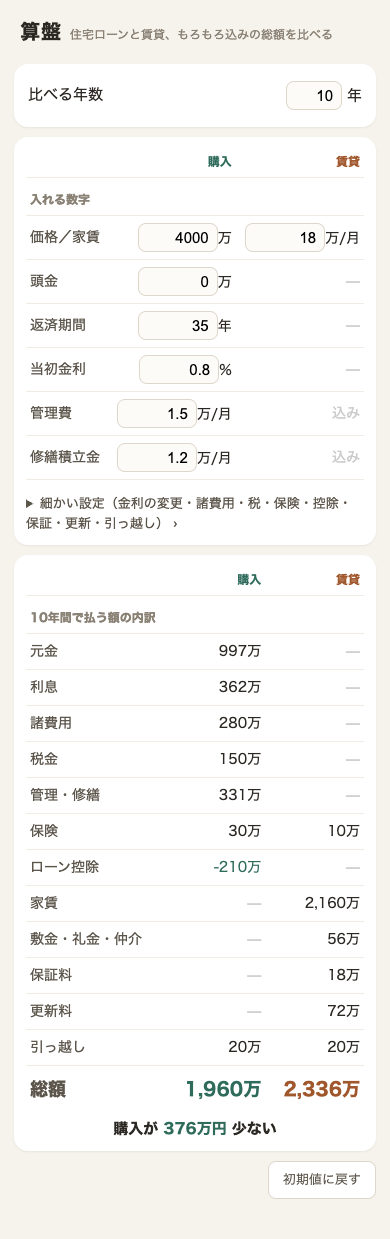
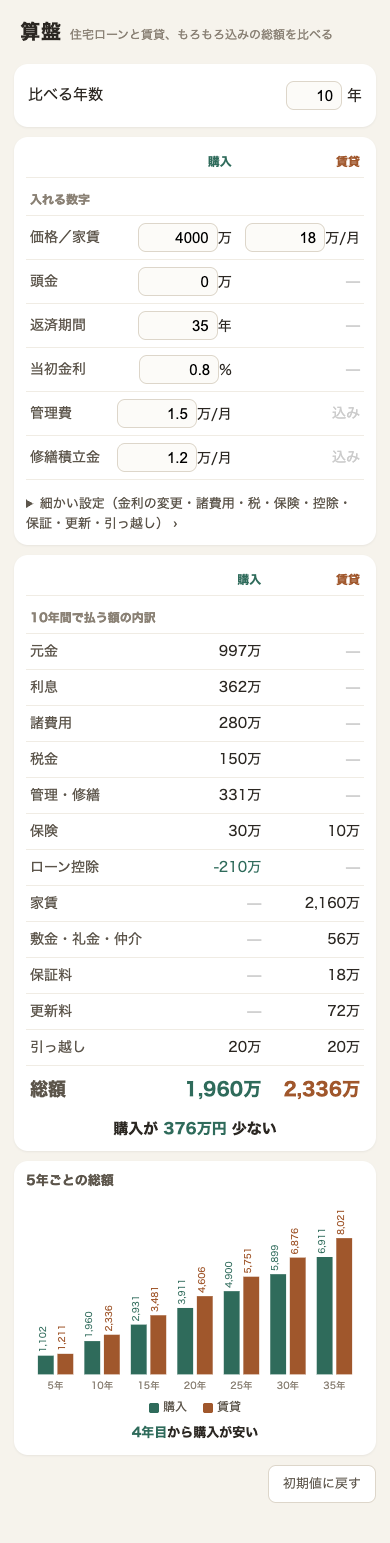
5年ごとの累計総額の棒グラフを追加
- calc.js に純粋関数 yearMarks / totalsByYears / findCrossoverYear を追加（既存の計算ロジックは変更なし）
- index.html に依存ライブラリなしのSVG縦棒グラフを追加。狭い年数幅では数字を縦書きにして重なりを回避
- 逆転年（購入が賃貸を初めて下回る年）の一言メッセージを表示
- テスト: totalsByYears・yearMarks・findCrossoverYear を追加（計10件、既存6件含め全て通過）

diff --git a/public/index.html b/public/index.html
@@ -36,6 +36,9 @@ details .row span:first-child{flex-shrink:0}
 button#reset{background:#fff;border:1px solid #ddd6ca;border-radius:8px;padding:8px 14px;font-size:13px;color:#5c554b;cursor:pointer}
 button#reset:active{background:#f0ece4}
 .rc{display:flex;gap:6px;align-items:center;flex-wrap:wrap}
+.chartLegend{display:flex;justify-content:center;gap:16px;font-size:12px;color:#5c554b;margin-top:4px}
+.chartLegend .sw{display:inline-block;width:10px;height:10px;border-radius:2px;margin-right:4px;vertical-align:middle}
+#chartSvg{display:block;width:100%;height:auto}
 </style>
 </head>
 <body>
@@ -102,10 +105,129 @@ button#reset:active{background:#f0ece4}
 <div class="diffline" id="out-diff"></div>
 </div>
 
+<div class="card" style="padding:10px 12px">
+<div class="sec" style="margin:0 0 8px">5年ごとの総額</div>
+<svg id="chartSvg" viewBox="0 0 320 185" preserveAspectRatio="none"></svg>
+<div class="chartLegend">
+  <span><span class="sw" style="background:#2f6b5b"></span>購入</span>
+  <span><span class="sw" style="background:#a0572c"></span>賃貸</span>
+</div>
+<div class="diffline" id="out-crossover" style="font-size:13px"></div>
+</div>
+
 <div class="btnrow"><button id="reset" type="button">初期値に戻す</button></div>
 
 <script type="module">
-import { DEFAULTS, mergeWithDefaults, calculate, toNumber } from "./calc.js";
+import {
+  DEFAULTS,
+  mergeWithDefaults,
+  calculate,
+  toNumber,
+  yearMarks,
+  totalsByYears,
+  findCrossoverYear,
+} from "./calc.js";
+
+const SVG_NS = "http://www.w3.org/2000/svg";
+const CHART_W = 320;
+const CHART_H = 185;
+const CHART_SIDE_PAD = 6; // 両端の余白（数字がはみ出さないように）
+const CHART_TOP_PAD = 38; // 棒の上の数字（縦書き）の余白
+const CHART_BOTTOM_PAD = 18; // 横軸ラベルの余白
+
+function formatInt(n) {
+  return Math.round(n).toLocaleString("ja-JP");
+}
+
+function drawChart(input) {
+  const svg = document.getElementById("chartSvg");
+  while (svg.firstChild) svg.removeChild(svg.firstChild);
+
+  const loanTermYears = toNumber(input.loanTermYears, DEFAULTS.loanTermYears);
+  const marks = yearMarks(loanTermYears);
+  const crossover = findCrossoverYear(input, loanTermYears);
+
+  const crossoverEl = document.getElementById("out-crossover");
+  if (loanTermYears <= 0) {
+    crossoverEl.textContent = "";
+  } else if (crossover === 1) {
+    crossoverEl.textContent = "最初から購入が安い";
+  } else if (crossover === null) {
+    crossoverEl.textContent = "返済期間中は賃貸が安い";
+  } else {
+    crossoverEl.innerHTML = `<span class="buy">${crossover}年目</span>から購入が安い`;
+  }
+
+  if (marks.length === 0) return;
+
+  const rows = totalsByYears(input, marks);
+  const maxVal = Math.max(1, ...rows.map((r) => Math.max(r.buyTotal, r.rentTotal)));
+  const chartH = CHART_H - CHART_TOP_PAD - CHART_BOTTOM_PAD;
+  const n = rows.length;
+  const plotW = CHART_W - CHART_SIDE_PAD * 2;
+  const groupW = plotW / n;
+  const barGap = Math.min(4, groupW * 0.08); // 棒2本の間の隙間
+  const barW = Math.max(4, Math.min(15, (groupW - barGap) / 2 - 2));
+  // 棒が狭いほど数字を縦書きにして、横の重なりを避ける
+  const vertical = barW + barGap < 22;
+  const valueFontSize = n > 7 ? 7.5 : n > 4 ? 8.5 : 9.5;
+  const axisFontSize = n > 7 ? 8 : 9;
+
+  function placeValueLabel(x, y, text, fill) {
+    const label = document.createElementNS(SVG_NS, "text");
+    label.setAttribute("font-size", String(valueFontSize));
+    label.setAttribute("fill", fill);
+    label.textContent = text;
+    if (vertical) {
+      label.setAttribute("x", String(x));
+      label.setAttribute("y", String(y));
+      label.setAttribute("text-anchor", "start");
+      label.setAttribute("transform", `rotate(-90 ${x} ${y})`);
+    } else {
+      label.setAttribute("x", String(x));
+      label.setAttribute("y", String(y));
+      label.setAttribute("text-anchor", "middle");
+    }
+    svg.appendChild(label);
+  }
+
+  rows.forEach((row, i) => {
+    const groupX = CHART_SIDE_PAD + i * groupW;
+    const buyH = (row.buyTotal / maxVal) * chartH;
+    const rentH = (row.rentTotal / maxVal) * chartH;
+    const buyX = groupX + groupW / 2 - barGap / 2 - barW;
+    const rentX = groupX + groupW / 2 + barGap / 2;
+    const baseline = CHART_TOP_PAD + chartH;
+
+    const buyRect = document.createElementNS(SVG_NS, "rect");
+    buyRect.setAttribute("x", String(buyX));
+    buyRect.setAttribute("y", String(baseline - buyH));
+    buyRect.setAttribute("width", String(barW));
+    buyRect.setAttribute("height", String(buyH));
+    buyRect.setAttribute("fill", "#2f6b5b");
+    svg.appendChild(buyRect);
+
+    const rentRect = document.createElementNS(SVG_NS, "rect");
+    rentRect.setAttribute("x", String(rentX));
+    rentRect.setAttribute("y", String(baseline - rentH));
+    rentRect.setAttribute("width", String(barW));
+    rentRect.setAttribute("height", String(rentH));
+    rentRect.setAttribute("fill", "#a0572c");
+    svg.appendChild(rentRect);
+
+    placeValueLabel(buyX + barW / 2, Math.max(9, baseline - buyH - 3), formatInt(row.buyTotal), "#2f6b5b");
+    placeValueLabel(rentX + barW / 2, Math.max(9, baseline - rentH - 3), formatInt(row.rentTotal), "#a0572c");
+
+    const axisLabel = document.createElementNS(SVG_NS, "text");
+    axisLabel.setAttribute("x", String(groupX + groupW / 2));
+    axisLabel.setAttribute("y", String(CHART_H - 4));
+    axisLabel.setAttribute("text-anchor", "middle");
+    axisLabel.setAttribute("font-size", String(axisFontSize));
+    axisLabel.setAttribute("fill", "#8a8175");
+    axisLabel.textContent = row.years + "年";
+    svg.appendChild(axisLabel);
+  });
+}
 
 const STORAGE_KEY = "soroban-input-v1";
 
@@ -192,6 +314,8 @@ function render() {
   } else {
     diffEl.textContent = "購入と賃貸はほぼ同額";
   }
+
+  drawChart(input);
 }
 
 function init() {

diff --git a/public/calc.js b/public/calc.js
@@ -247,6 +247,37 @@ export function calculate(input) {
   return { buy, rent, diff };
 }
 
+// 5年ごとの対象年を返す（5,10,15,… 返済期間以下の5の倍数。返済期間が5の倍数でなければ最後に返済期間そのものも足す。
+// 返済期間が5未満なら返済期間の1本だけ。上限は50年）
+export function yearMarks(loanTermYears) {
+  const term = Math.min(50, Math.max(0, Math.round(toNumber(loanTermYears))));
+  if (term <= 0) return [];
+  if (term < 5) return [term];
+  const marks = [];
+  for (let k = 5; k <= term; k += 5) marks.push(k);
+  if (term % 5 !== 0) marks.push(term);
+  return marks;
+}
+
+// 指定した年のリストそれぞれについて、購入・賃貸の総額を計算する
+export function totalsByYears(input, years) {
+  return years.map((y) => {
+    const result = calculate({ ...input, years: y });
+    return { years: y, buyTotal: result.buy.total, rentTotal: result.rent.total };
+  });
+}
+
+// 1年目から maxYears 年目まで1年ずつ計算し、購入総額が賃貸総額を初めて下回る年を返す。
+// 一度も下回らなければ null
+export function findCrossoverYear(input, maxYears) {
+  const max = Math.max(0, Math.round(toNumber(maxYears)));
+  for (let y = 1; y <= max; y++) {
+    const result = calculate({ ...input, years: y });
+    if (result.buy.total < result.rent.total) return y;
+  }
+  return null;
+}
+
 export function mergeWithDefaults(input) {
   const merged = { ...DEFAULTS, ...(input || {}) };
   if (!input || !input.rateChanges) merged.rateChanges = DEFAULTS.rateChanges.map((c) => ({ ...c }));
